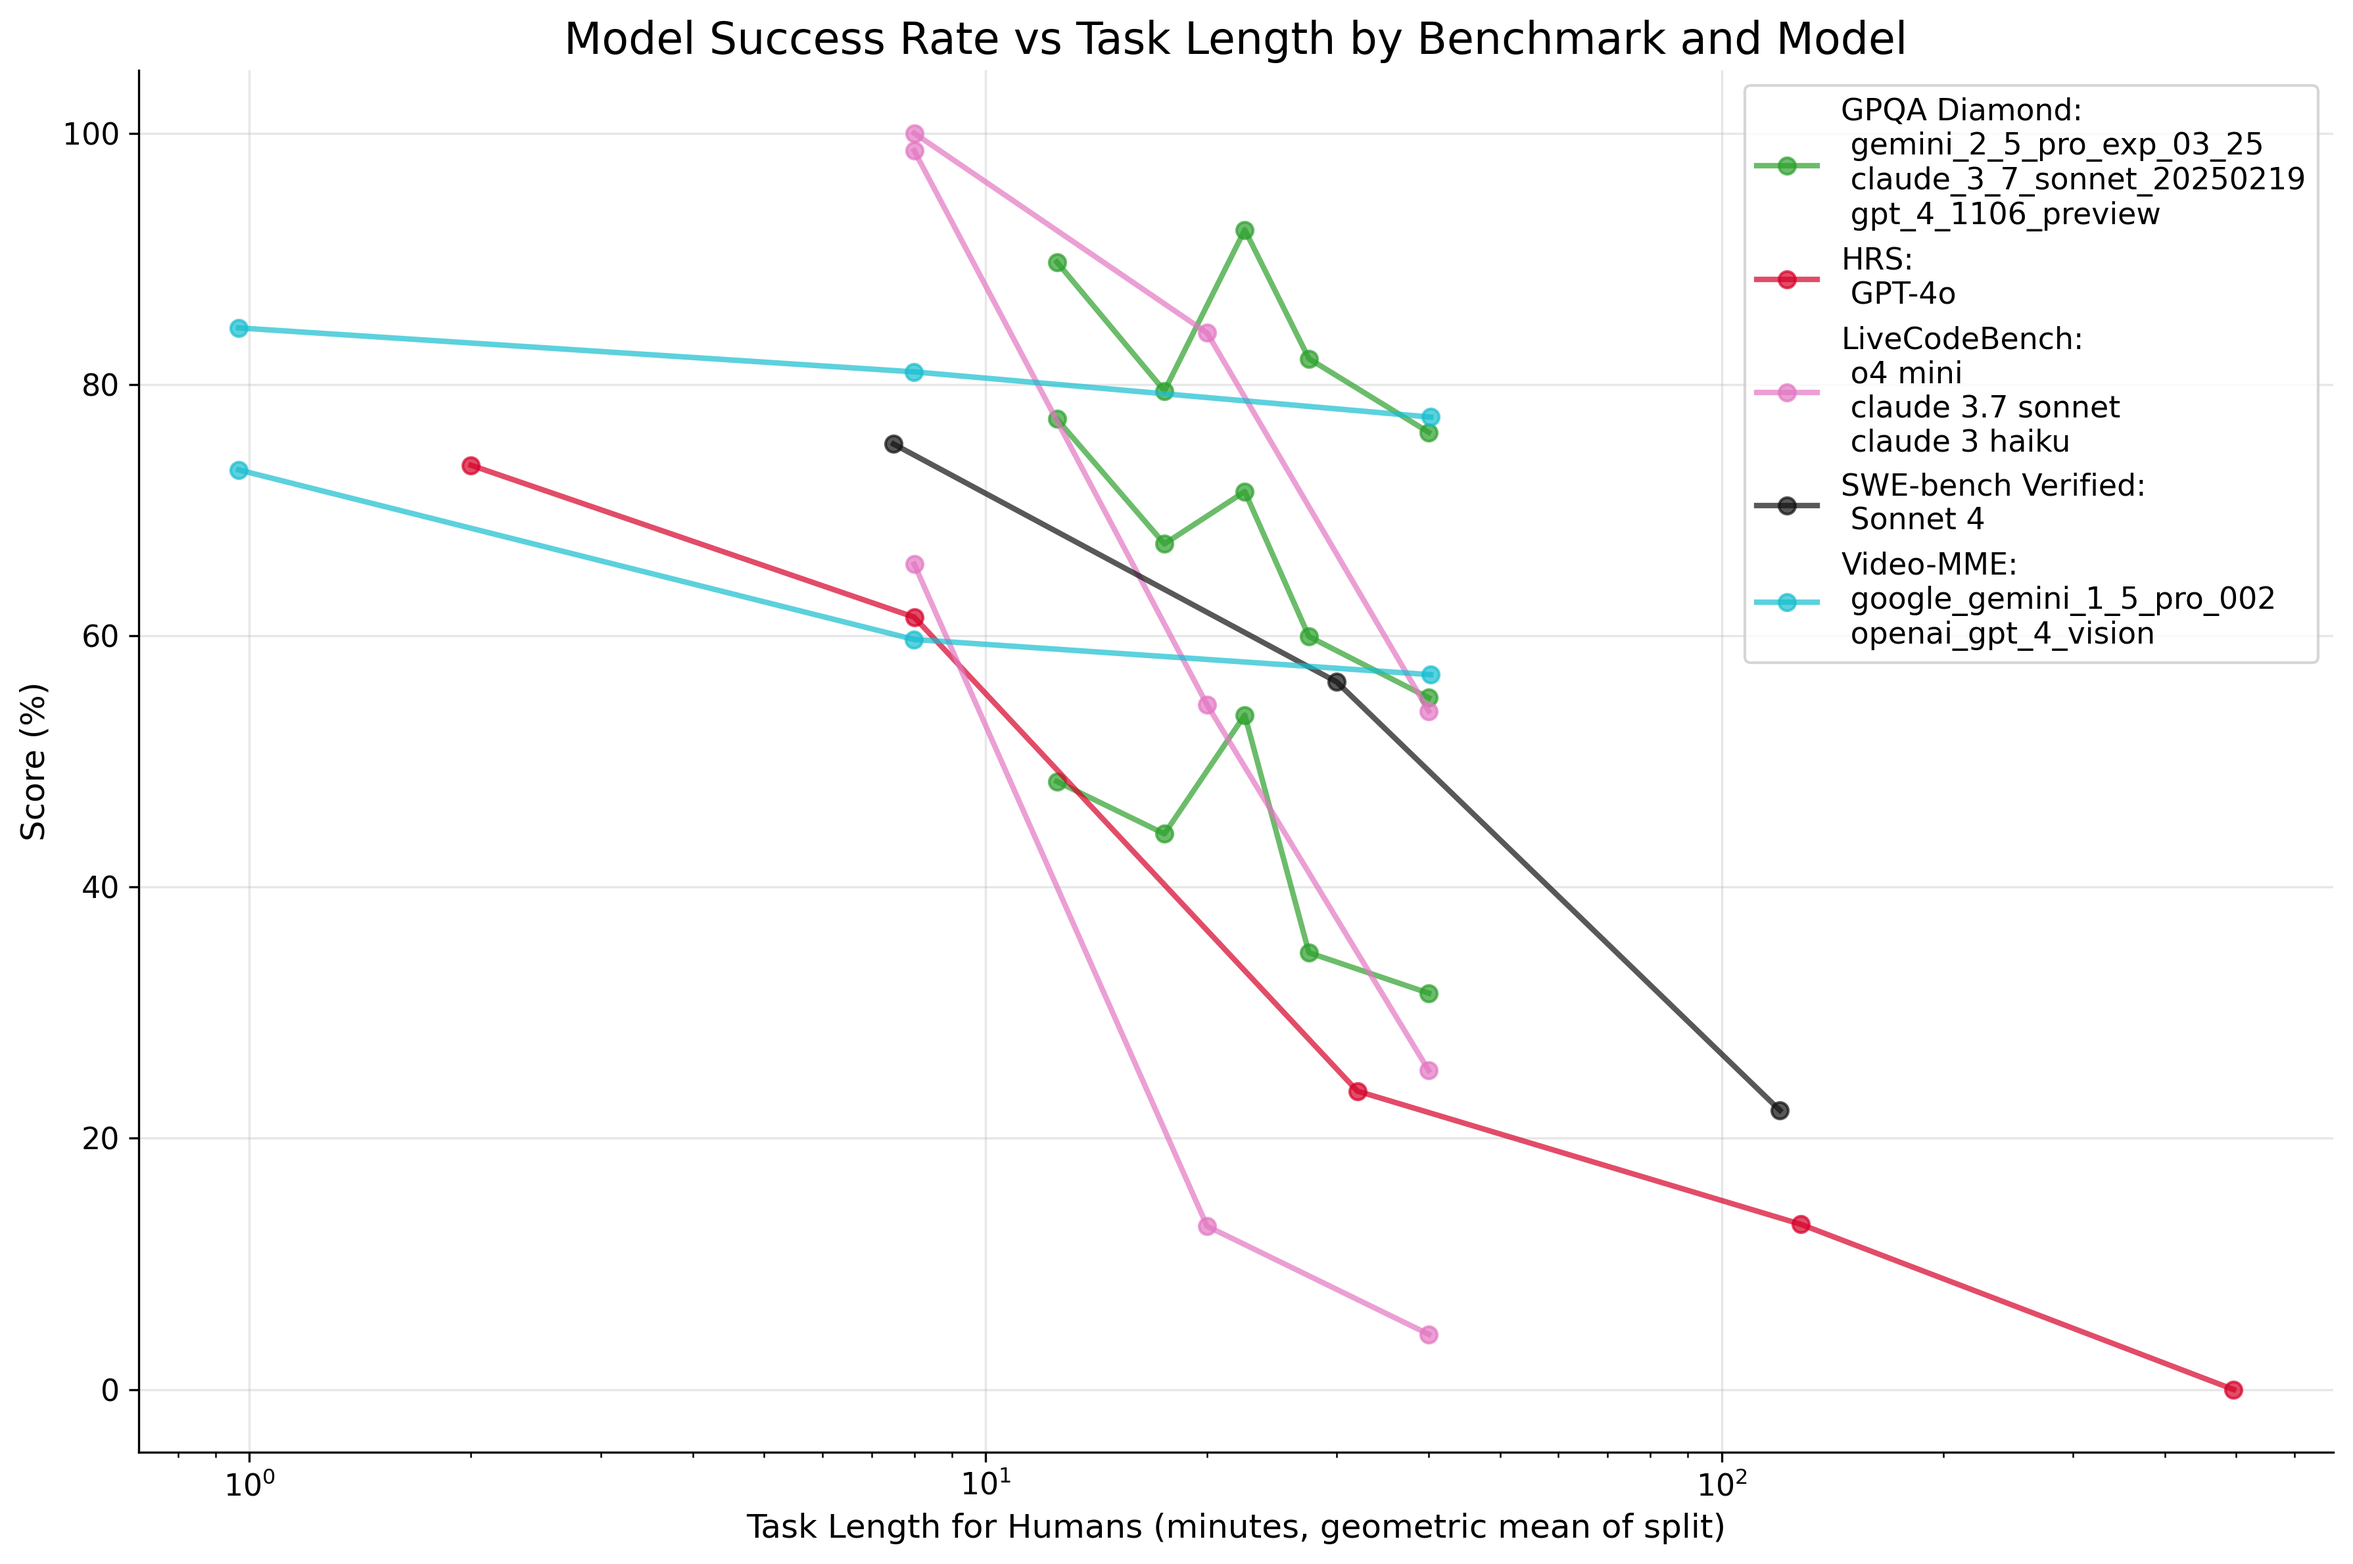
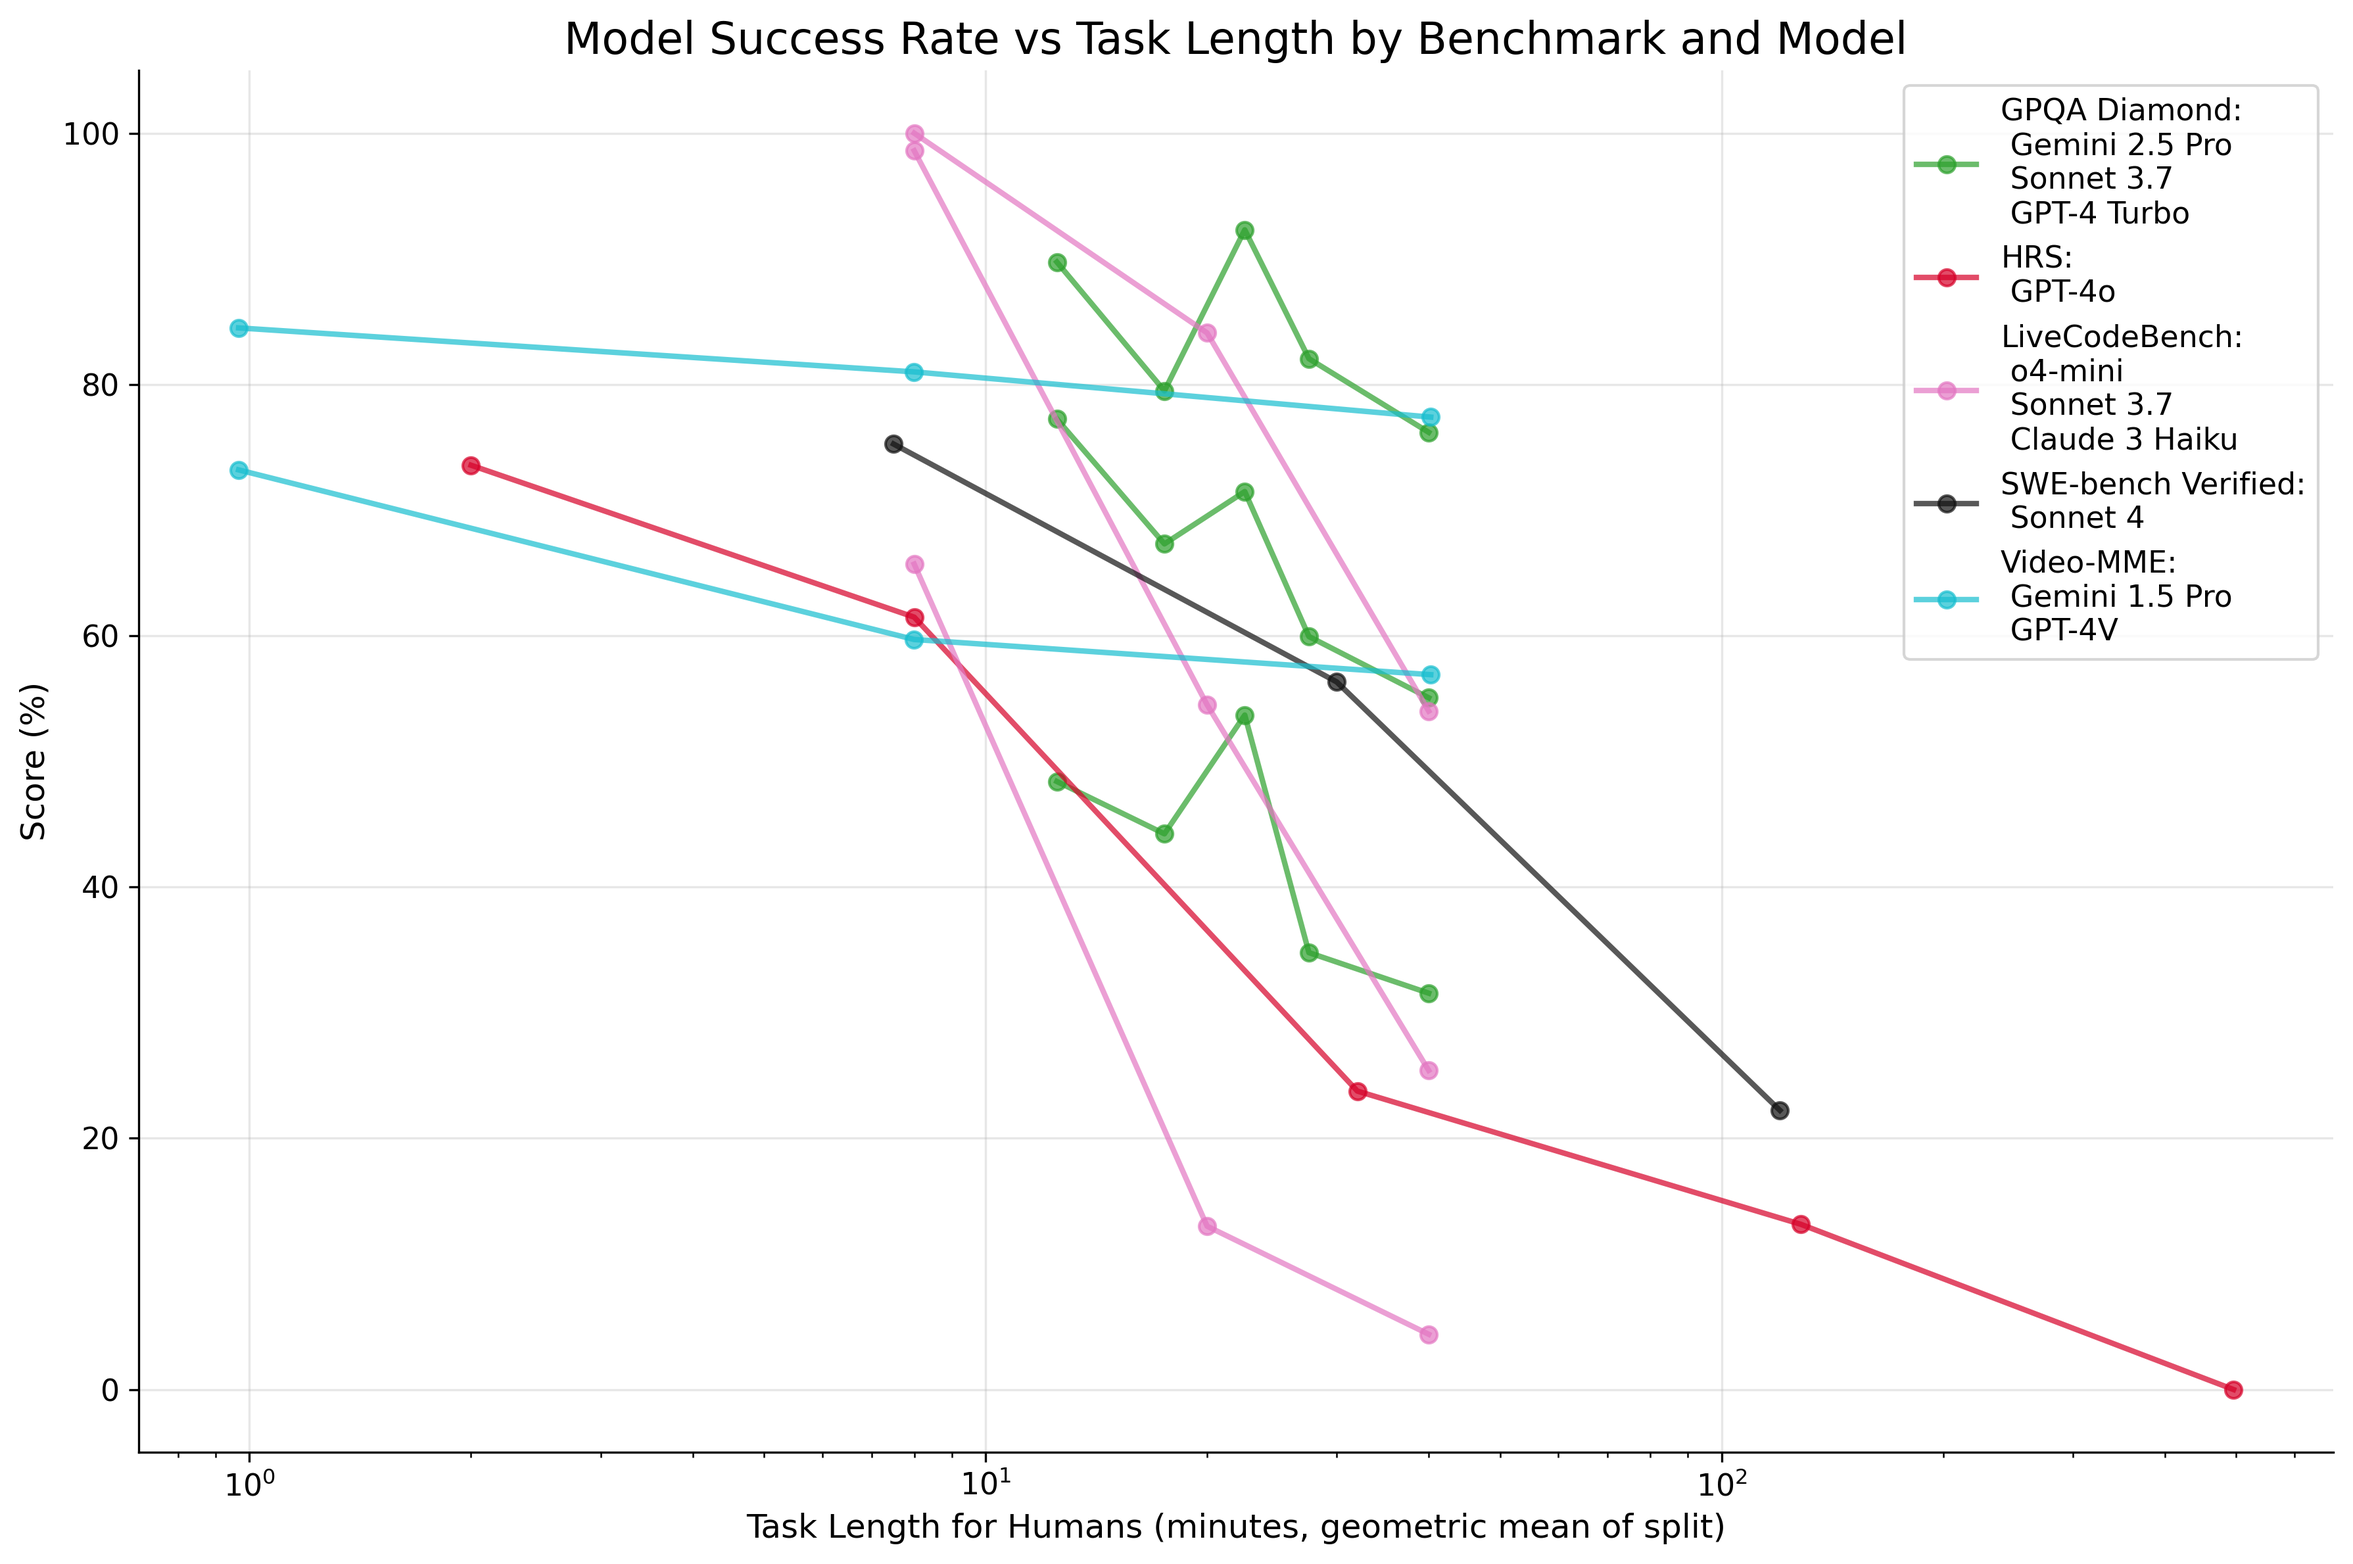
aliases for splits plot

Changed region(s): [[0.7443, 0.0622, 0.9614, 0.4355]]

diff --git a/plotting_aliases.py b/plotting_aliases.py
@@ -52,7 +52,12 @@ plotting_aliases = {
     "claude_2_0": "Claude 2",
     "claude_3_5_sonnet_20240620": "Sonnet 3.5",
     "claude_sonnet_4_20250514": "Sonnet 4",
-    "gemini_2_5_pro_exp_03_25": "G 2.5 Pro",
-    "claude_3_7_sonnet_20250219": "C 3.7 S",
+    "gemini_2_5_pro_exp_03_25": "Gemini 2.5 Pro",
+    "claude_3_7_sonnet_20250219": "Sonnet 3.7",
     "gpt_4_1106_preview": "GPT-4 Turbo",
+    "openai_gpt_4_vision": "GPT-4V",
+    "google_gemini_1_5_pro_002": "Gemini 1.5 Pro",
+    "claude 3.7 sonnet": "Sonnet 3.7",
+    "o4 mini": "o4-mini",
+    "claude 3 haiku": "Claude 3 Haiku",
 }
